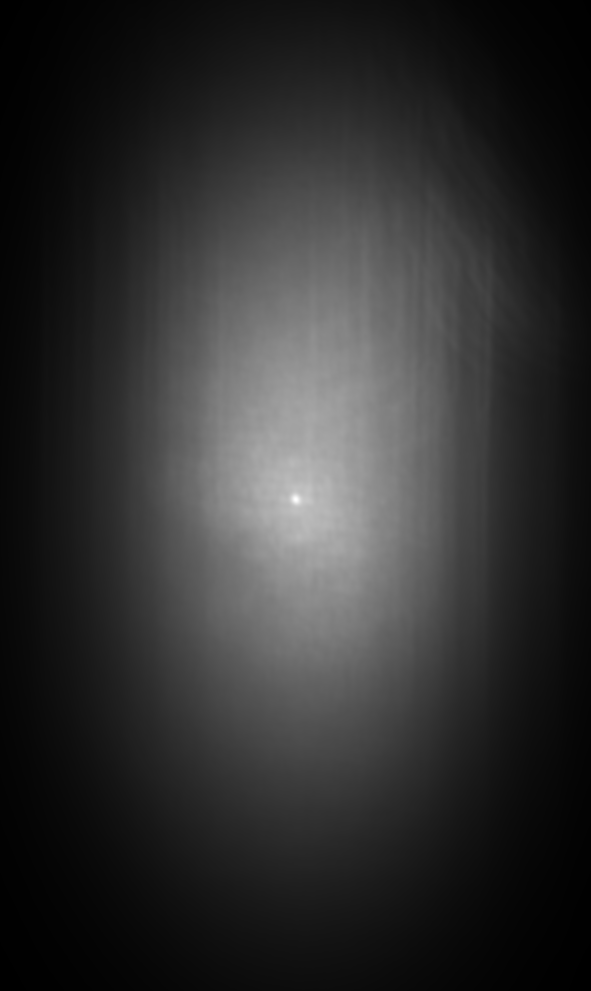
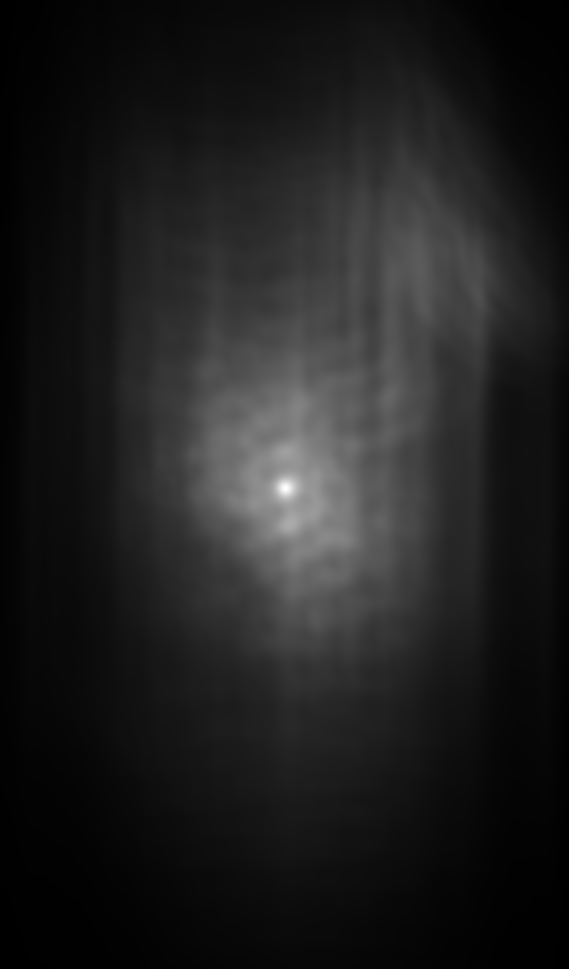
filter radius scales with square root of total area

Changed region(s): [[0.2091, 0.1238, 0.8067, 0.8359], [0.8366, 0.2477, 0.8664, 0.3096]]

diff --git a/transparency.py b/transparency.py
@@ -105,7 +105,7 @@ hubAxis = estimateHubAxis(im1, im2)
 hubIm1 = np.dot(im1, hubAxis)
 hubIm2 = np.dot(im2, hubAxis)
 
-filterRadius = getTotalArea(im1, im2) * 0.000003
+filterRadius = np.sqrt(getTotalArea(im1, im2)) * 0.01
 print "Filter radius:", filterRadius
 
 filters = getFilters(getFilterSize(filterRadius, sigmasInFrame = 3),
